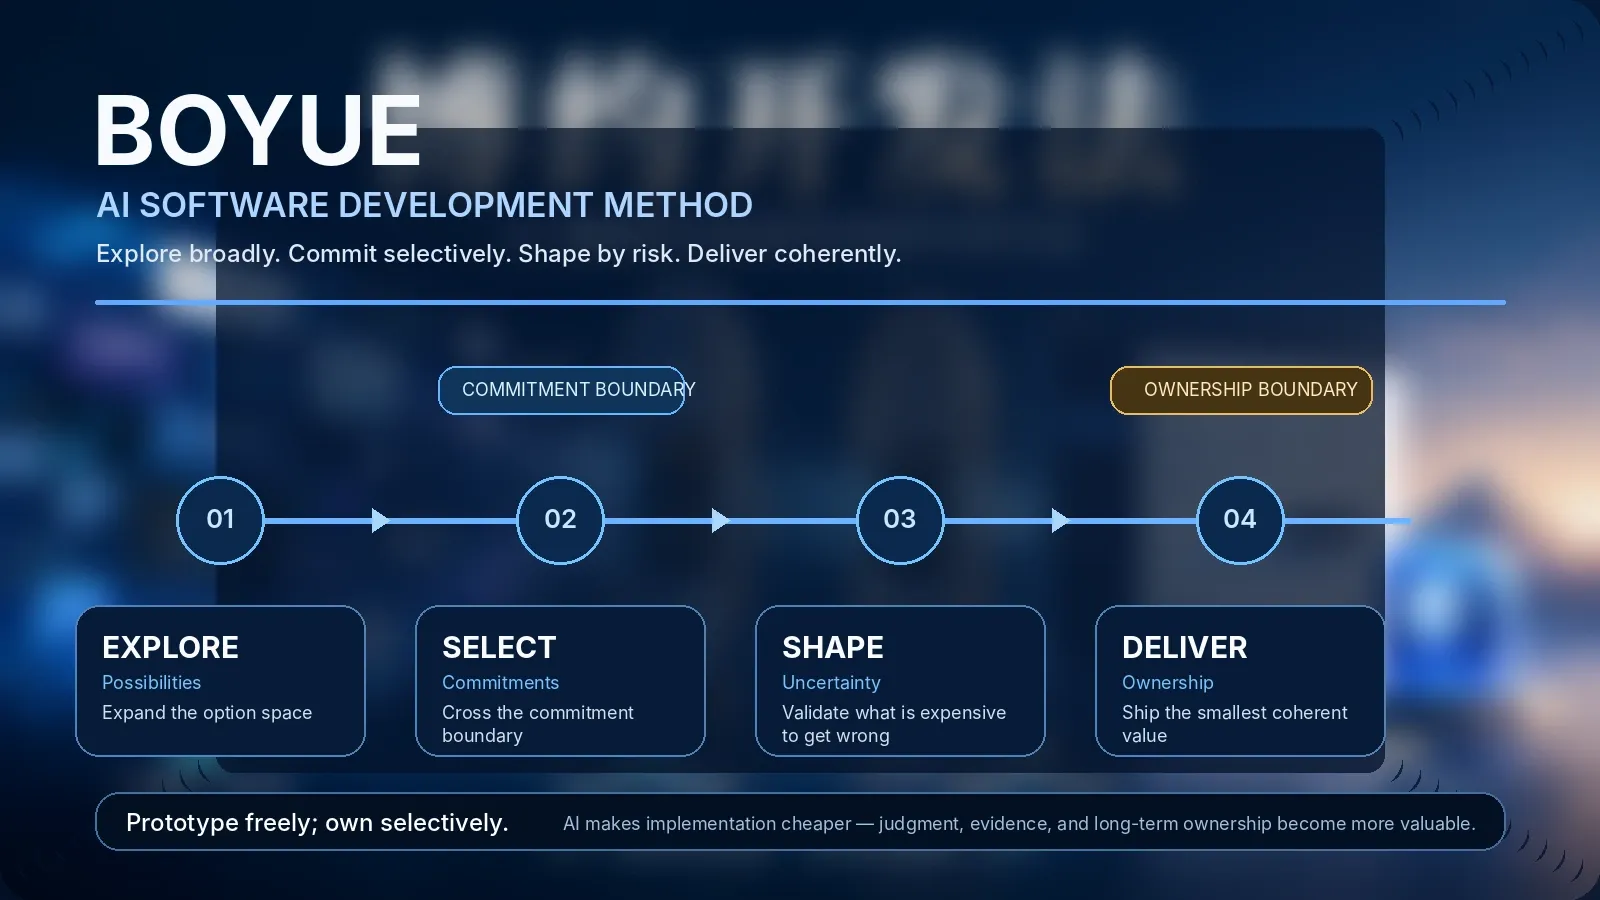
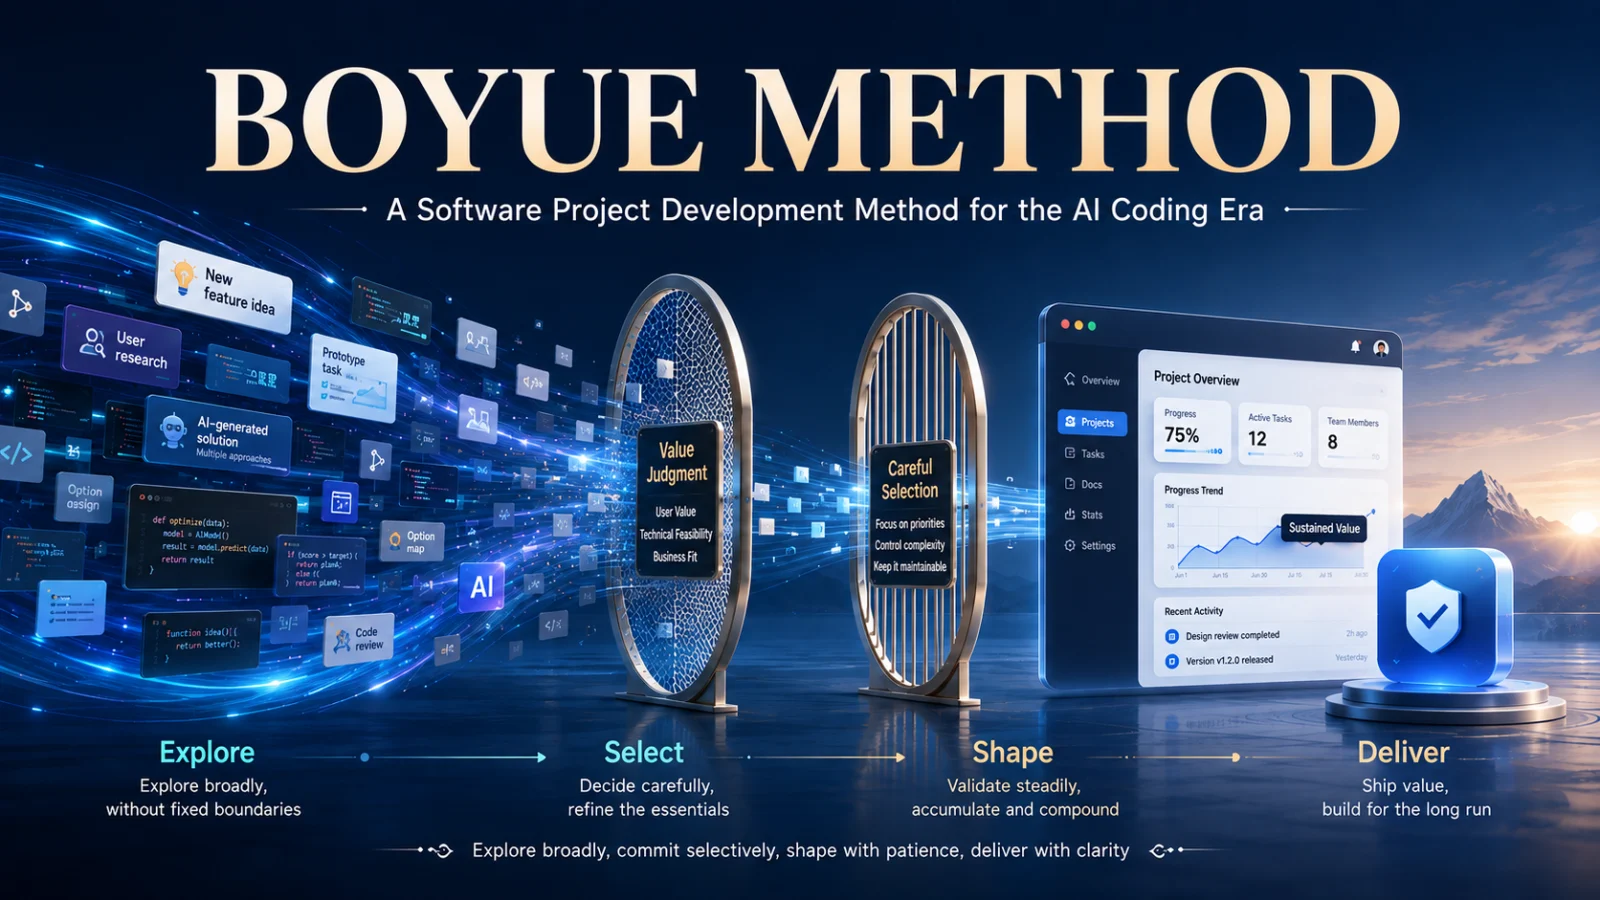
docs: 统一多语言导航与英文封面

diff --git a/paper/README.md b/paper/README.md
@@ -1,25 +1,23 @@
-# Boyue Methodology Paper · 博约开发法论文
+English | [简体中文](README.zh-CN.md)
 
-This directory contains the long-form conceptual paper behind the Boyue Skill.
+# Boyue Methodology Paper
 
-- **中文完整版：** [从实现稀缺到实现丰裕：AI 软件工程中的决策边界与复杂度治理](boyue-methodology.zh-CN.md)
-- **English full paper:** [From Implementation Scarcity to Implementation Abundance](boyue-methodology.md)
+This directory contains the long-form conceptual paper behind the Boyue Method and its Agent Skill.
 
-## Reading edition / 图文阅读版
+## Paper
 
-For a more visual, blog-style reading experience with illustrations and web typography:
-
-- **吾爱分享网：** [博约开发法：AI 编程时代的软件项目开发方法](https://www.wuaishare.cn/12793.html)
+- [From Implementation Scarcity to Implementation Abundance](boyue-methodology.md) — full English conceptual working paper
 
 ## Installable Skill
 
-The executable Agent Skill lives at the repository root, with an official Chinese reading edition for review and learning:
+- [SKILL.md](../SKILL.md) — canonical execution source for compatible coding agents
 
-- [SKILL.md](../SKILL.md) — canonical execution source
-- [Skill 中文阅读版](../docs/SKILL.zh-CN.md) — official Chinese reading edition
+## Project home
+
+- [Boyue repository](../README.md)
 
 The paper explains **why** the framework exists; the Skill turns the framework into **runtime development behavior** for compatible coding agents.
 
 ## Attribution
 
-The Boyue methodology was originally developed and published by **吾爱分享网 / Wuaishare**. When redistributing or adapting the methodology text, retain the original source and repository links.
+The Boyue methodology was originally developed and published by **Wuaishare**. When redistributing or adapting the methodology text, retain the original source and repository links.

diff --git a/paper/README.zh-CN.md b/paper/README.zh-CN.md
@@ -1,0 +1,25 @@
+[English](README.md) | 简体中文
+
+# 博约开发法方法论论文
+
+本目录收录博约开发法及其 Agent Skill 背后的完整方法论论文。
+
+## 论文
+
+- [从实现稀缺到实现丰裕：AI 软件工程中的决策边界与复杂度治理](boyue-methodology.zh-CN.md) — 中文完整概念型工作论文
+
+## 可安装 Skill
+
+- [SKILL.md](../SKILL.md) — 兼容 Coding Agent 的唯一执行真源
+- [Skill 中文阅读版](../docs/SKILL.zh-CN.md) — 面向中文用户的官方阅读与审阅版本
+
+## 项目主页
+
+- [博约开发法 GitHub 项目](../README.zh-CN.md)
+- [吾爱分享网图文阅读版](https://www.wuaishare.cn/12793.html)
+
+论文主要回答这套方法**为什么存在、理论边界是什么**；Skill 则把方法论转化为 AI 编程工具可以在项目开发过程中实际执行的决策与复杂度治理行为。
+
+## 原创与出处
+
+“博约开发法”由 **吾爱分享网（Wuaishare）** 原创提出并持续完善。转载、引用或改编方法论文字时，请保留原始出处与项目链接。

diff --git a/paper/boyue-methodology.md b/paper/boyue-methodology.md
@@ -1,14 +1,15 @@
+English | [简体中文](boyue-methodology.zh-CN.md)
+
 # From Implementation Scarcity to Implementation Abundance
 
 ## Decision Boundaries and Complexity Governance for AI-Assisted Software Engineering
 
 ### A Conceptual Framework for the Boyue Method
 
-**Author / Publisher:** Wuaishare (吾爱分享网)  
-**Project:** Boyue · 博约开发法  
-**Original methodology article:** https://www.wuaishare.cn/12793.html  
-**GitHub:** https://github.com/wuaishare/boyue  
-**Document type:** Conceptual Working Paper
+- **Author / Publisher:** Wuaishare
+- **Project:** Boyue Method
+- **GitHub:** https://github.com/wuaishare/boyue
+- **Document type:** Conceptual Working Paper
 
 > **博观而约取，厚积而薄发。**  
 > Broadly observe and selectively take; accumulate deeply and release with restraint.  

diff --git a/CHANGELOG.md b/CHANGELOG.md
@@ -2,6 +2,16 @@
 
 All notable changes to Boyue are documented here.
 
+## v0.2.3 — 2026-08-27
+
+### Changed
+
+- Replaced the English README cover with a language-matched version that preserves the same composition and visual system as the Chinese cover.
+- Standardized README language navigation to the conventional horizontal form: `English | 简体中文`.
+- Split the paper index into dedicated English and Simplified Chinese pages instead of mixing both languages in one navigation page.
+- Added matching language switches to the English and Chinese methodology papers.
+- Skill package version bumped to `0.2.3`.
+
 ## v0.2.2 — 2026-08-27
 
 ### Added

diff --git a/SKILL.md b/SKILL.md
@@ -1,7 +1,7 @@
 ---
 name: boyue
 description: "Decision and complexity governance for AI-assisted software development / 面向 AI 编程的软件项目决策与复杂度治理。Use when planning products or features, evaluating scope expansion, making hard-to-reverse decisions, validating uncertain AI capabilities, deciding whether experimental code belongs in production, or reviewing mature systems for simplification and retirement. Do not slow down low-risk reversible edits."
-version: 0.2.2
+version: 0.2.3
 ---
 
 # Boyue · 博约开发法

diff --git a/README.md b/README.md
@@ -1,3 +1,5 @@
+English | [简体中文](README.zh-CN.md)
+
 # Boyue Method
 
 > **AI makes it easier to build the wrong thing faster.**
@@ -9,8 +11,6 @@ It helps teams explore broadly, commit selectively, validate expensive decisions
 [![Boyue Method — AI software development method](assets/boyue-cover-en.webp)](paper/boyue-methodology.md)
 
 *Click the cover to read the full English methodology paper.*
-
-**Language:** [Simplified Chinese](README.zh-CN.md)
 
 ## Project resources
 

diff --git a/README.zh-CN.md b/README.zh-CN.md
@@ -1,3 +1,5 @@
+[English](README.md) | 简体中文
+
 # 博约开发法 · Boyue
 
 > **AI 可以让错误的东西更快被做出来。**
@@ -9,8 +11,6 @@
 [![博约开发法：从广泛探索到谨慎拥有](assets/boyue-cover-zh-CN.webp)](https://www.wuaishare.cn/12793.html)
 
 *点击主图可前往吾爱分享网图文阅读版，通过配图与博客排版更直观地理解方法论。*
-
-**其他语言：** [English version](README.md)
 
 ## 项目资源
 

diff --git a/paper/boyue-methodology.zh-CN.md b/paper/boyue-methodology.zh-CN.md
@@ -1,3 +1,5 @@
+[English](boyue-methodology.md) | 简体中文
+
 # 从实现稀缺到实现丰裕：AI 软件工程中的决策边界与复杂度治理
 
 ## ——“博约开发法”的概念框架、实践机制与研究命题
